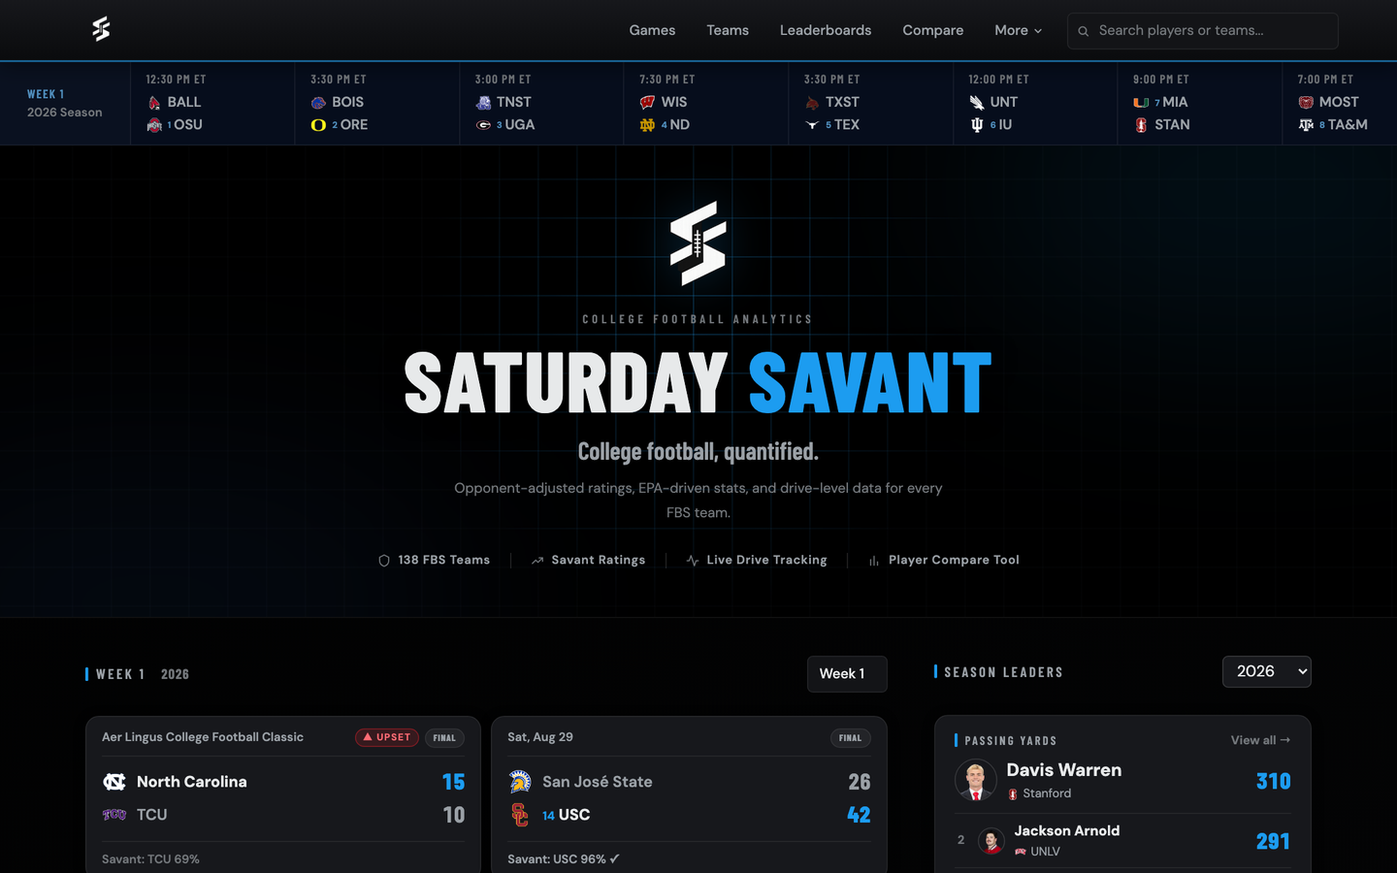
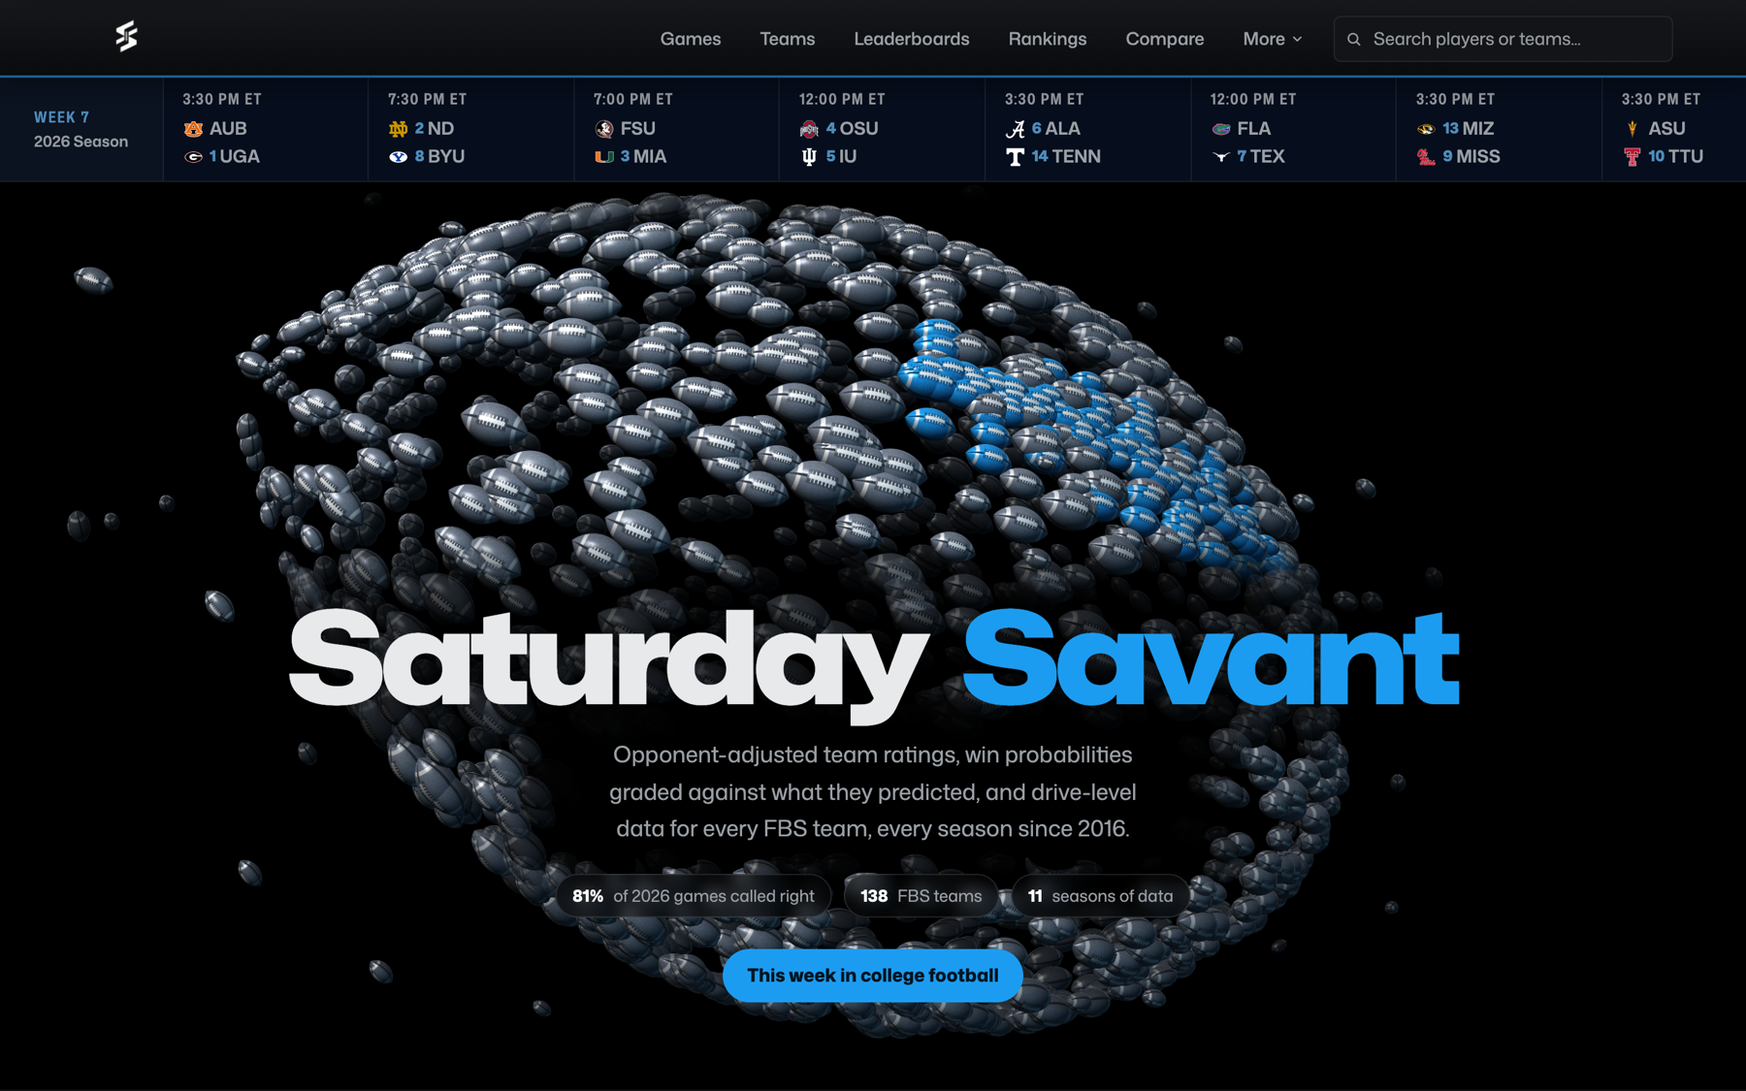
README: bring it up to date with the site
Current model figures (Forecast v3: 72.3% held-out 2025, 71.4%
walk-forward 2021-26, with the SP+/Elo/Vegas baselines; Savant Rating's
fixed home field and preseason-anchored prior), the pages added since
(simulator, standings, bracket projection, search, rankings ladder,
head-to-head), the three crons as they run now (23-step Sunday chain,
10-minute scores with the hourly AP poll, 15-minute stats), the split
page/data/image caches and four request guards, and the root modules.
Fresh screenshots of the hero, the week in one screen and a team page.

diff --git a/README.md b/README.md
@@ -4,7 +4,7 @@
   <h1>Saturday Savant</h1>
 
   <p><strong>College football, quantified.</strong><br>
-  Opponent-adjusted ratings, a validated win-probability model, and drive-level data for every FBS team.</p>
+  Opponent-adjusted team ratings, win probabilities graded against what they predicted, and drive-level data for every FBS team, every season since 2016.</p>
 
   <p>
     <a href="https://saturdaysavant.com"><strong>saturdaysavant.com</strong></a>
@@ -17,134 +17,189 @@
     <img alt="Cloudflare R2" src="https://img.shields.io/badge/Cloudflare%20R2-F38020?logo=cloudflare&logoColor=white">
   </p>
 
-  <img src="docs/images/home.png" alt="Saturday Savant home page" width="100%">
+  <img src="docs/images/home.png" alt="Saturday Savant home page: a football assembled from thousands of footballs behind the wordmark" width="100%">
 </div>
 
 ---
 
-Saturday Savant is a Baseball-Savant-inspired analytics site covering every FBS team across the
-2016–2025 seasons and the live 2026 one, bowls and the CFP bracket included. The differentiator is
-depth and transparency rather than breadth: every proprietary metric here is built to be
-explainable, and how it is computed — along with what it cannot do — is documented rather than
-hidden behind a black box.
+Saturday Savant is a Baseball-Savant-inspired analytics site for college football: every FBS team,
+player, game, rivalry and season from 2016 through the 2026 season being played now, bowls and the
+College Football Playoff included. It is free, needs no account, and puts the whole picture in one
+place: form, matchups, efficiency, standings, polls, the playoff race, transfers and the draft.
 
-## The metrics
+The two proprietary models are built to be explainable. How each is computed, and what it can't
+do, is documented on the site and in this repo rather than hidden behind a black box.
+
+## The models
 
 ### Savant Rating
 
 An opponent-adjusted Offensive, Defensive and Net Rating for every team, measured in **points per
-10 drives** — football's possession is the drive, so scaling per-drive efficiency by 10 lands on a
-familiar points-per-game scale while staying fully pace-neutral. Slow, grinding teams aren't
-punished for having fewer possessions.
+10 drives**. The possession in football is the drive, so scaling per-drive efficiency by 10 lands on
+a familiar points-per-game scale while staying pace-neutral: slow, grinding teams aren't punished
+for having fewer possessions.
 
 The decisions that matter are in what counts as a possession. FBS-vs-FBS only (an unratable
-opponent can't be adjusted for). No overtime drives — they start at the 25 and break the scale. No
-kneel-downs. **Garbage-time drives never enter the sample at all**, gated on score margin by
-quarter, which is the football answer to the margin-of-victory problem: rather than capping blowout
-scores after the fact, possessions where neither side is playing normal football are excluded up
-front. Defensive and special-teams touchdowns fall out by construction, because a drive's points
-are measured as the change in the *offense's* score during its own drive.
+opponent can't be adjusted for). No overtime drives, which start at the 25 and break the scale. No
+kneel-downs. **Garbage-time drives never enter the sample**, gated on score margin by quarter. That
+is the football answer to the margin-of-victory problem: rather than capping blowout scores after
+the fact, possessions where neither side is playing normal football are left out up front.
+Defensive and special-teams touchdowns fall out by construction, because a drive's points are the
+change in the *offense's* score during its own drive.
 
-Opponent adjustment is iterative and KenPom-style, run to a fixed point rather than a single pass —
-one pass corrects for opponents' raw strength, which is itself polluted by *their* schedules.
-Recent games carry up to 1.35× the weight of the opener, and early-season samples are shrunk toward
-the mean by a Bayesian prior instead of a hard games-played minimum. It measures how good a team is
-**now**, not what it has accomplished.
+Opponent adjustment is iterative and KenPom-style, run to a fixed point rather than a single pass.
+Recent games carry up to 1.35× the weight of the opener. Two calibration choices carry most of the
+early-season accuracy:
 
-→ [`pipeline/compute_savant_ratings.py`](pipeline/compute_savant_ratings.py) — the methodology is
-documented in full at the top of the file.
+- **Home field is a fixed constant**, not measured from the season in progress. September
+  schedules are lopsided by design (power programs host weaker teams), so a live measurement reads
+  home field at nearly twice its true size in week 3.
+- **Small samples shrink toward preseason expectation, not the national average.** Every team
+  carries 35 pseudo-drives at 80% of last season's rating. Shrinking toward "average" would also
+  shrink a weak opponent toward average, and blunt the opponent adjustment itself.
+
+The acceptance test for any change is a walk-forward backtest: build ratings through week W−1,
+predict week W, and measure the error. Ratings are stored as weekly "through week N" snapshots back
+to 2016, which drive each team's Trends tab and the home page's biggest weekly moves. The rating
+measures how good a team is **now**, not what it has accomplished.
+
+→ [`pipeline/compute_savant_ratings.py`](pipeline/compute_savant_ratings.py), with the methodology
+documented at the top of the file, and in plain language at `/savant-rating`.
 
 ### Savant Forecast
 
 A logistic win-probability and expected-margin model for every FBS-vs-FBS game, trained locally and
-served as a dot product (no sklearn in production).
+served as a dot product (sklearn never deploys).
 
-| | walk-forward 2019–2025 | held-out 2025 |
+| | walk-forward 2021–2026 | held-out 2025 |
 |---|---|---|
-| Accuracy | 71.1% | 71.8% (808 games) |
-| Brier | 0.187 | 0.184 |
+| Accuracy | 71.4% (4,216 games) | 72.3% |
+| Brier | 0.186 | 0.182 |
+
+On the held-out 2025 season it beats prior-season SP+ (65.4%) and Elo alone (70.9%), and trails the
+Vegas closing line (73.5%). The live model (v3) was trained on 2017–2023, tuned on 2024 and graded
+once on 2025, then refit on every season through 2025. The numbers above are still the held-out
+ones.
 
 The part that keeps it honest is the **leakage contract**, stated at the top of
-[`forecast_features.py`](forecast_features.py): only information knowable before kickoff goes in. An
-Elo-style rating reflecting just the games already finished; prior-season Savant and SP+; preseason
-roster signals (returning production, recruiting, net transfer stars); and game context. Explicitly
-excluded are same-season aggregates, AP polls, and even a conference-game flag — the teams table
-stores *current* conference only, so realignment would make historical membership silently wrong.
+[`forecast_features.py`](forecast_features.py): only information knowable before kickoff goes in.
+That means an Elo-style rating that reflects only games already finished, prior-season Savant
+Rating and SP+, preseason roster signals (returning production, recruiting, net transfer stars),
+and game context. Same-season aggregates and AP polls are explicitly excluded. So is a
+conference-game flag: the teams table stores *current* conference only, so realignment would make
+historical membership silently wrong.
 
-Predictions **freeze at kickoff**, so the public accuracy tracker is graded against exactly what was
-on the page beforehand, never a retro-edited number. Each game carries a per-feature breakdown of
-what drove that specific call. A separate 4-feature model handles FBS-vs-FCS games, where the FBS
-side wins ~93% regardless and the model earns its keep on calibration and spread rather than
-accuracy.
+Five of the 16 inputs also have an early-season twin that fades as games are played, so last
+season's ratings lead in September and the current season's results take over from there.
 
-→ [`docs/FORECAST_RETRAIN.md`](docs/FORECAST_RETRAIN.md) — retrain protocol, ship bars, and a log of
-rejected experiments (including the ones that *looked* like improvements).
+Predictions **freeze at kickoff**, so the accuracy shown at `/savant-forecast` is graded against
+exactly what was on the page beforehand, never a retro-edited number. Each game carries a
+per-feature breakdown of what drove that specific call. A separate 4-feature model handles
+FBS-vs-FCS games, where the FBS side wins about 93% of the time regardless; that model earns its
+keep on calibration (Brier 0.030) and spread rather than accuracy.
 
-### Also built here
+→ [`docs/FORECAST_RETRAIN.md`](docs/FORECAST_RETRAIN.md): retrain protocol, ship bars, and a log of
+rejected experiments, including the ones that *looked* like improvements.
 
-**Returning Production** (how much of a team's output carries year to year) · **Key Transfers** ·
-**Projected Record** (season win total derived from Forecast) · **NFL Talent** (every drafted or
-signed player from a program) · percentile ranks against a player's own position group, curated to
-show efficiency metrics rather than counting stats.
+### Built on top of them
+
+- **Season simulator**: the rest of the season played out 10,000 times, every remaining game
+  decided by its forecast, for each team's odds of a conference title game, the Playoff and the
+  national title.
+- **Projected record**: a team's actual record plus expected wins from its remaining games,
+  recomputed on every render (unlike single-game forecasts, which freeze).
+- **Upset watch**: the best chance this week for a team to beat one ranked above it, by the AP poll
+  or by Savant Rating.
+- **Playoff bracket**: a projection under the 2026 selection and seeding rules until the committee
+  seeds the field, then the real bracket.
+- **Percentiles** against a player's own position group, curated to show efficiency rather than
+  counting stats, plus team percentiles on every team page and game preview.
+- **Returning production**, **projected starters** (a full depth chart from player talent grades
+  and production), **transfers** and **NFL talent** (every drafted or signed player from a program).
 
 ## The site
 
-<img src="docs/images/team.png" alt="Team page" width="100%">
+<img src="docs/images/week.png" alt="Home page: the week in one screen, with game of the week, Savant top 8, playoff odds, upset watch and polls vs. the numbers" width="100%">
 
 | | |
 |---|---|
-| **Home / Games** | Live score ticker, results and schedule by week, season leaders, upset tracking |
-| **Team pages** | Overview, Team Stats (Savant Rating, SP+, percentiles, Returning Production), Player Stats, Trends, Roster, projected Starters, NFL Talent — any season 2016→present |
-| **Player pages** | Season stats, position-group percentiles, full game log, transfer history, draft status, passing/target charts |
-| **Game pages** | Box score, drive-by-drive, game leaders, and the full Savant Forecast breakdown |
-| **Leaderboards** | Player and team, Standard/Advanced views, position and conference filters |
-| **Savant Rating** | Methodology page: how the rating is built, plus the current full-league table |
-| **Explorer** | Plot any two stats against each other; scatter and radar |
-| **Compare** | Side-by-side players or teams, with a shareable image export |
-| **Rankings · Standings · Bracket · Transfers · Rivalries · NFL Draft** | |
+| **Home** | The week in one screen: game of the week, Savant top 8, playoff odds, upset watch, polls vs. the numbers. Then the week's top games, biggest rating moves and season leaders. After the slate ends it looks back: the game of the week shows its final, and upset watch becomes the week's upsets |
+| **Score ticker** | Sitewide, under the nav: the current week's games, live scores patched in place, win-probability sparklines on hover |
+| **Games** | Every game by season and week, with conference and team filters, the forecast on every card, and upset badges on finals |
+| **Team pages** | Overview, Team Stats, Player Stats, Trends, Roster, Starters, Transfers, NFL Talent, for any season since 2016 |
+| **Player pages** | Last game, position-group percentiles, usage, runs by direction, career, game log, transfer path, draft status |
+| **Game pages** | Overview, Box Score, Drives and Passing tabs; matchup preview before kickoff; the full Savant Forecast breakdown |
+| **Leaderboards** | Player and team, Standard and Advanced views, position and conference filters |
+| **Rankings** | The AP poll week by week as a ladder (each team's results and this week's game) beside its Savant rank |
+| **Standings** | Every FBS conference, ordered by conference record |
+| **Bracket · Simulator** | The Playoff picture: the bracket or its projection, and the season simulator |
+| **Stat explorer** | Plot any two stats, with teams as logos and players as headshots; six server-rendered charts of the sport as a whole; the head-to-head series for any two teams |
+| **Compare** | Two players or two teams side by side, with a clean shareable URL and share images in three sizes |
+| **Rivalries · Transfer portal · NFL draft · Search** | |
+| **Methodology** | `/savant-rating` and `/savant-forecast`: how each model works, and how well it has done |
+
+<img src="docs/images/team.png" alt="Team page: Penn State's header with Net Savant rating, schedule and next matchup" width="100%">
 
 ## Architecture
 
-Flask app, PostgreSQL, images on Cloudflare R2, deployed on Render behind gunicorn (2 workers ×
-6 threads, no `--preload` so each worker builds its own connection pool).
+A Flask app with server-rendered Jinja templates and progressive enhancement, on PostgreSQL, with
+images on Cloudflare R2. Deployed on Render behind gunicorn (2 workers × 8 threads, no `--preload`,
+so each worker builds its own connection pool). Plotly is the only heavy client library, and only
+the Stat Explorer loads it.
 
-Three caching layers, because the expensive pages are genuinely expensive:
+Caching comes in three layers, because the expensive pages are genuinely expensive:
 
-1. **Flask-Caching** `SimpleCache` in-process, capped well below the default — rendered player pages
-   are 100–400KB each and an uncapped cache pushes a small instance into swap.
-2. **`@cache.memoize`** on the costly computes (percentile pools, team aggregates).
-3. **`pool_store`** — gzipped JSON in Postgres, so a restarted worker pays a ~30ms read instead of a
+1. **Flask-Caching `SimpleCache`**, in process, split three ways: rendered pages (capped at 250
+   entries, since a player page is 100–400KB), season-wide data such as stat pools and standings,
+   and resized images. Keeping them apart stops a crawler sweeping player pages from evicting the
+   data every page needs.
+2. **`@memoize`** on the costly computes (percentile pools, team aggregates).
+3. **`pool_store`**: gzipped JSON in Postgres, so a restarted worker pays a ~30ms read instead of a
    ~400ms aggregate. This is the layer that survives deploys.
 
-Because `SimpleCache` is per-process, `/admin/clear-cache` also records the flush in `pool_store` so
-the *other* worker picks it up. Every data-writing script calls `cache_notify` when it finishes.
+`SimpleCache` is per process, so `/admin/clear-cache` also records the flush in `pool_store` for the
+*other* worker to pick up. Every data-writing script calls `cache_notify` when it finishes. Live
+scores never invalidate a page: cached HTML stays cached, and a small `/api/live` payload patches
+the scores in place.
 
-Two `before_request` hooks run ahead of any database work: crawler load-shedding (a bot storm that
-ignored `robots.txt` once took the site down) and per-IP rate limiting.
+Images are served at the size they are drawn. Headshots are mirrored to R2 with small WebP
+thumbnails beside the originals, logos go through ESPN's resizer, and every rendered page rewrites
+its image URLs to match.
+
+Four `before_request` hooks run ahead of any database work: crawler load-shedding (a bot storm that
+ignored `robots.txt` once took the site down), per-IP rate limiting, refusal of the query-string
+URLs `robots.txt` disallows, and a cap on concurrent page renders.
 
 ## Repo layout
 
 ```
-main.py                 the Flask app — every route
+main.py                 the Flask app: every route
 season_util.py          which season the pipeline ingests (deliberately not the display default)
+divisions.py            who counts as FBS, shared by the site and the pipeline
 forecast_features.py    the Savant Forecast feature pipeline + leakage contract
 forecast_explain.py     per-game "why" breakdown, imported by the app at render time
+season_sim.py           the season simulator (run by the weekly chain, read by /simulator)
+landscape.py            the Stat Explorer's server-rendered SVG charts
+compare_card.py         /compare share images, drawn with Pillow
+espn_board.py           ESPN's scoreboard as a second opinion on which games are live
+espn_rankings.py        ESPN's AP poll for the weeks CFBD hasn't posted yet
+headshot_thumbs.py      small WebP copies of every headshot, kept beside the originals in R2
 cache_notify.py         tells the live site to drop its page cache after a data write
 forecast_model.json     trained artifacts, loaded at serve time
+fcs_forecast_model.json
 run_weekly.sh           the weekly cron chain, in order
 
-pipeline/               the automated chain: CFBD fetches → ratings → pools → precompute → forecast
+pipeline/               the automated jobs: CFBD fetches → ratings → pools → precompute → forecast → simulator
 forecast/               model training and feature research (local only; sklearn never deploys)
-tools/                  event-driven jobs — transfer windows, signing day, post-draft, logos
+tools/                  event-driven jobs: transfer windows, signing day, post-draft, logos
 backfill/               one-shot historical loads and completed migrations
 docs/                   cron setup and the forecast retrain log
 templates/  static/     Jinja templates and the stylesheet (design tokens at the top)
 ```
 
-The five modules at the root are the ones **imported by others**; everything under `pipeline/`,
-`tools/` and `backfill/` is an entry point you run directly. Each of those scripts puts the repo
-root on `sys.path` and resolves `.env` against it, so they behave the same from any working
-directory.
+The modules at the root are the ones **imported by others**. Everything under `pipeline/`, `tools/`
+and `backfill/` is an entry point you run directly. Each of those scripts puts the repo root on
+`sys.path` and resolves `.env` against it, so they behave the same from any working directory.
 
 ## Running locally
 
@@ -154,43 +209,62 @@ pip install -r requirements.txt
 # .env at the repo root
 DATABASE_URL=postgresql://...     # Render Postgres connection string
 CFBD_API_KEY=...                  # https://collegefootballdata.com/key
-R2_*=...                          # headshot bucket — only the image scripts read these
+R2_*=...                          # headshot bucket; only the image scripts read these
 ADMIN_KEY=...                     # guards /admin/clear-cache
 
-python3 main.py                   # http://localhost:5001
+python3 main.py                   # http://localhost:5001 (or $PORT)
 ```
 
 Indexes are created at startup (`ensure_indexes()`, `CREATE INDEX IF NOT EXISTS`), so a fresh
 database needs no migration step.
 
-## The weekly pipeline
+## The data pipeline
 
-`run_weekly.sh` is the single ordered chain — 16 steps, Mondays 10:00 UTC — that refreshes every
-table CFBD updates after Saturday's games, then rebuilds the derived stores so no visitor pays a
-cold computation. `set -e` aborts on failure, leaving the previous week's stores intact rather than
-half-refreshed. Several steps are deliberately non-fatal so a third-party hiccup can't take the
-chain down.
+Three Render cron jobs keep the data current.
 
-A second cron runs `pipeline/fetch_scores.py` every 10 minutes: one CFBD call, `UPDATE` only, never
-`DELETE` or `INSERT`, so unlike the weekly fetch it structurally cannot wipe a season.
+**Weekly, Sundays 12:00 UTC: [`run_weekly.sh`](run_weekly.sh).** One ordered chain of 23 steps that
+refreshes every table CFBD updates after Saturday's games, then rebuilds the derived stores (Savant
+Ratings, percentile pools, team-page precomputes, forecasts, the season simulation) so no visitor
+pays a cold computation. The hour is pinned by the latest Saturday kickoff: it leaves CFBD about
+four hours after the last game ends. `set -e` aborts on a real failure, leaving the previous week's
+stores intact rather than half-refreshed. Eleven steps are deliberately non-fatal so a third-party
+hiccup can't take the chain down, and their failures are tallied and reprinted at the end of the log.
 
-→ [`docs/RENDER_CRON.md`](docs/RENDER_CRON.md) — full step list, ordering constraints, and why each
+**Every 10 minutes: `pipeline/fetch_scores.py`.** Scores and game status, with ESPN as a second
+opinion when CFBD lags on a late kickoff. `UPDATE` only, never `DELETE` or `INSERT`, so unlike the
+weekly fetch it structurally cannot wipe a season. Once an hour it also fetches the AP poll, because
+the poll's release day moves.
+
+**Every 15 minutes: `pipeline/refresh_stats.py`.** Season totals, per-player EPA and team stats,
+then the percentile pools built on them, in one pass, so a player's numbers and their rank against
+the field never disagree. Savant Ratings stay weekly on purpose: the rating a team carries into a
+week shouldn't move under readers mid-slate.
+
+Roster, transfer, NFL-status and other offseason scripts are event-driven, not scheduled, and live
+in `tools/`.
+
+→ [`docs/RENDER_CRON.md`](docs/RENDER_CRON.md): every step, the ordering constraints, and why each
 non-fatal step is non-fatal.
 
 ## Known limits
 
 Stated here because the site's whole argument is that it says what its numbers can't do.
 
-- **Play-level passing coverage is uneven.** 2021–2024 carry no rows at all; 2025 is partial *and*
-  lopsided within the season; 2026 onward runs at ~98% of attempts. Every chart gates on a coverage
-  floor rather than assuming a row's presence means the data is complete.
-- **Advanced per-player metrics are offense-only** — CFBD publishes no defensive EPA, so "how good
-  is this defender" has no equivalent efficiency answer.
+- **Play-level data starts in 2025.** Air yards, pass location, YAC and the enriched rushing splits
+  have no rows before 2025, and 2025 itself is partial. Every chart gates on a coverage floor rather
+  than assuming a row's presence means the data is complete.
+- **Advanced per-player metrics are offense-only.** CFBD publishes no defensive EPA, so "how good is
+  this defender" has no equivalent efficiency answer.
+- **There are no individual offensive-line stats.** Sacks, hurries and tackles for loss allowed are
+  tracked for the line as a unit, per game.
+- **Box-score turnovers, penalties and possession** end at 2025 in the stored history.
 - **Savant Rating measures current strength, not résumé.** It is not a playoff-selection argument.
 - **2016 is Elo burn-in** for the Forecast model: rows are emitted but excluded from training.
 
 ## Data
 
-[CollegeFootballData](https://collegefootballdata.com) (games, stats, drives, recruiting, SP+,
-play-level passing) and ESPN's public endpoints (box scores, live scoreboard, headshots). Team
-colors and logos are used for identification only.
+[CollegeFootballData](https://collegefootballdata.com) (games, stats, drives, rosters, recruiting,
+SP+, betting lines, weather, play-level passing and rushing) and ESPN's public endpoints (game
+summaries, drives, win probability, the live scoreboard, the AP poll when CFBD is late, headshots).
+EA Sports College Football ratings feed the projected-starters model internally and are never
+displayed. Team colors and logos are used for identification only.
